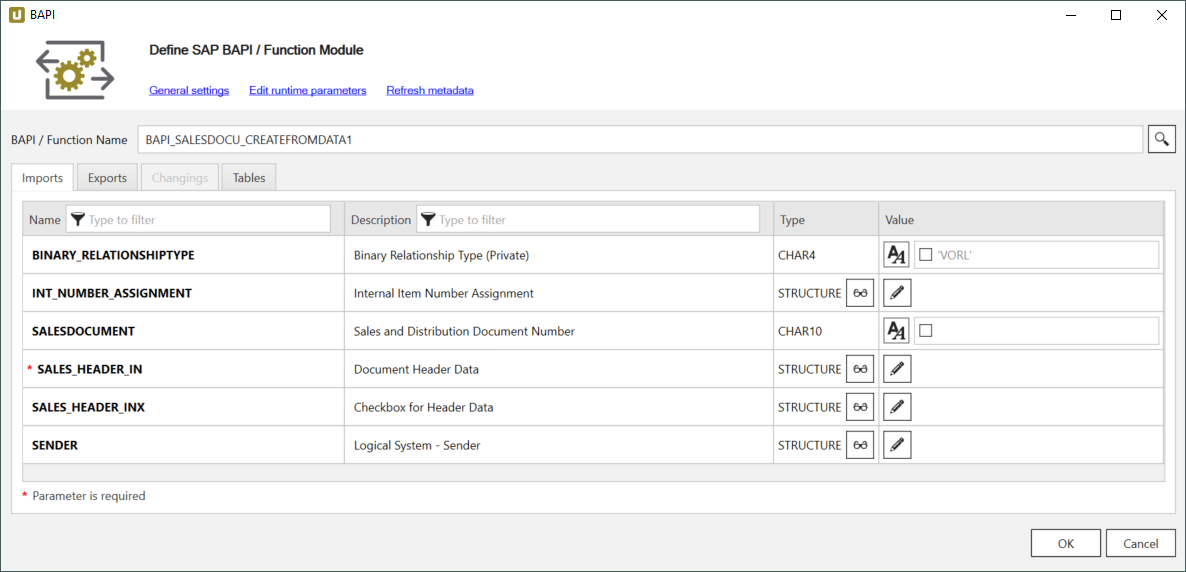
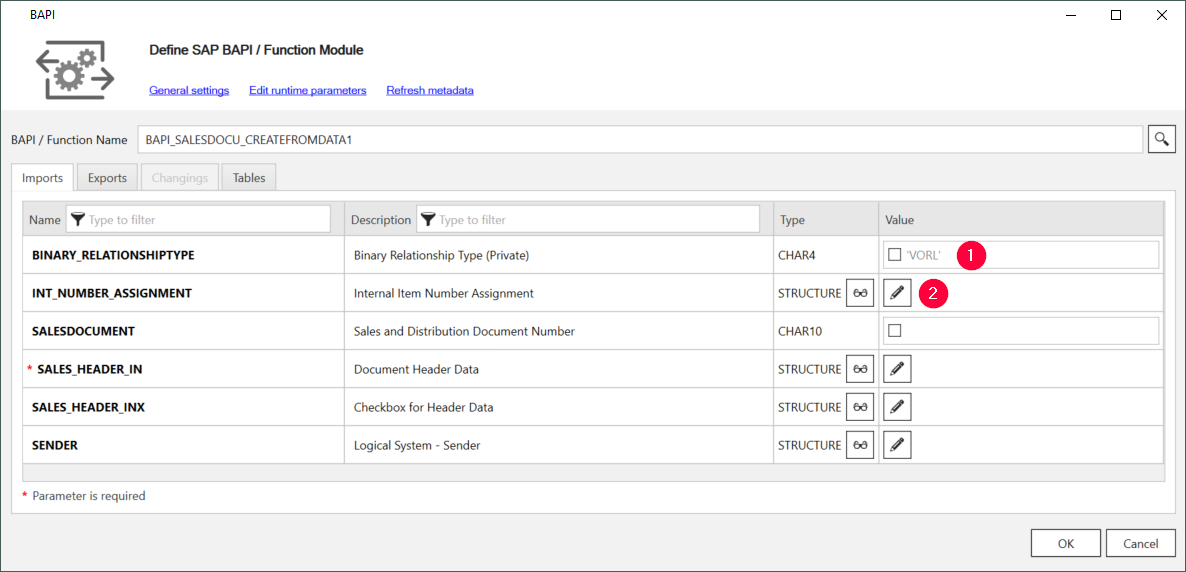
Parametrisierung

Changed region(s): [[0.7487, 0.4161, 0.8423, 0.6241], [0.0312, 0.0892, 0.0936, 0.1486], [0.0, 0.0, 0.0312, 0.0594]]

diff --git a/_includes/_content/en/bapis-and-function-modules/parameters.md b/_includes/_content/en/bapis-and-function-modules/parameters.md
@@ -9,34 +9,45 @@ Each Import, Export, Changings and Tables parameter can have one of the followin
 
 ### Import Parameters
 **Imports** represent the input values sent from the client to SAP. <br>
-In the tab **Imports** you can define import parameters that can be presented as scalar values structures or tables. 
+In the tab **Imports** you can define import parameters that can be presented as scalar values or structures. 
 
 ![BAPI import parameters](/img/content/XU-BAPI-Parameters.png){:class="img-responsive"}
 
 To use the filtering function, enter text in the headers of the columns **Name** and **Description**. <br>
 
-### Add Scalar Parameters
+#### Add Scalar Parameters (1)
 
-xxx
+Scalar fields for inputs are usually set using the following two options:
+- a static constant value (e.g., 1141).
+- a dynamic value set at run-time using a parameter (see [Runtime Parameters](./edit-runtime-parameters)).
+
+When using runtime parameters, make sure the input matches the data type.<br>
+When entering constant scalar values of a wrong data type, the field is marked red.
 
 {: .box-note }
-**Note:** Parameters that are predefined by SAP are displayed in a light grey font. 
+**Note:** Parameters that are predefined by SAP are displayed in a light grey font. <br>
 If you want to disable these parameters, activate the checkbox next to the parameter and don't enter a value.
 
-#### Add Structures or Tables as Parameters
+#### Add Structures as Parameters (2)
 
-xxx
+When using a structure, a value for each scalar field can be set similarly to a scalar field. 
+Setting a single value or a parameter for the whole structure is not possible.
+
+When a structure is available, you can assign structure elements (i.e. fields).<br>
+1. Click the **[pen icon]**. The window "Edit Structures" opens.
+2. Enter values or parameters under **Values**.
+![BAPI import parameters](/img/content/BAPI-Edit-Structure.png){:class="img-responsive"}
 
 ### Export Parameters
 **Exports** represent the output values sent from SAP back to the client after execution of a function module. <br>
 In the tab **Exports** you can define export parameters that can be presented as scalar values, structures or tables. 
 
-![BAPI export parameters](/img/content/Bapi-Exports-Edit.png){:class="img-responsive"}
-To use the filtering function, enter text in the headers of the columns **Name** and **Description**. <br>
-
 #### Add Items to Output
 Mark the checkbox in the output column to add an item to the output.<br>
 
+![BAPI export parameters](/img/content/Bapi-Exports-Edit.png){:class="img-responsive"}
+
+To use the filtering function, enter text in the headers of the columns **Name** and **Description**. <br>
 
 ### Changings Parameters
 
@@ -59,7 +70,7 @@ To use the filtering function, enter text in the headers of the columns **Name**
 
 #### Access Metadata of Tables (1)
 Click the **[glasses icon]** in the **Type** column to display the metadata of the selected table including the name and the data type of all fields. <br> 
-If tables are edited in SAP, you can refresh the data by clicking **Refresh metadata**<br>
+If the function module was edited in SAP, you can refresh the data by clicking **Refresh metadata**<br>
 ![BAPI table metadata](/img/content/BAPI-Table-Metadata.png){:class="img-responsive"}
 
 #### Add Tables to Output (2)
@@ -69,6 +80,18 @@ Mark the checkbox in the output column to add a table to the output.<br>
 
 #### Edit Tables (3)
 
+When using a structure, a value for each scalar field can be set similarly to a scalar field. 
+Setting a single value or a parameter for the whole structure is not possible.
+
+When a structure is available, you can assign structure elements (i.e. fields).<br>
+
 Edit tables via the **[pen icon]** in the column **Values**. <br> 
 
-xxx
+ 1. Click the **[pen icon]** in the column **Values**. The window "Edit Table Contents" opens.
+ 2. Click **[Add]** to add new set of parameters.<br>
+ 3. Enter values or parameters.<br>
+When using runtime parameters, make sure the input matches the data type.<br>
+When entering constant scalar values of a wrong data type, the field is marked red.<br>
+![BAPI edit table](/img/content/BAPI-Edit-Table-Contents.png){:class="img-responsive"}
+4. Click **[Remove]** to delete a row.
+

diff --git a/_includes/_content/de/bapi/eine-bapi-quelle-definieren.md b/_includes/_content/de/bapi/eine-bapi-quelle-definieren.md
@@ -14,17 +14,21 @@ Alternativ können Sie nach Function Groups suchen.
 Das Fenster "Xtract BAPI" zeigt die Parameter der ausgewählten BAPI.<br>
 Eine BAPI kann bis zu vier Paramtertypen haben: [Parametertypen](./parameter): Imports, Exports, Changings und Tables.
 
-![Define-Bapi-Data-Source](/img/content/XU-BAPI-Parameters.png){:class="img-responsive"}
-1. Geben Sie in **Import** Eingabeparameter an, die an SAP gesendet werden, siehe [Import Parametrisierung](). <br>
-Sie können Skalarwerte, Strukturen und Tabellen übergeben. Sie können außerdem dynamische Laufzeitparameter verwenden, siehe [Laufzeitparameter](./edit-runtime-parameters.md).<br>
-Verpflichtende Parameter sind mit einem roten * markiert.
-2. Definieren Sie die Ausgabe von SAP in **Export**, siehe [Export Parametrisierung]().<br>
-Aktivieren Sie die Checkbox neben den aufgelisteten Elementen, um sie der Ausgabe hinzuzufügen.
-3. Optional: Falls verfügbar können SIe Ein- und Ausgabeparameter in **Changings** hinzufügen, siehe [Changings Parametrisierung]().
-4. Fügen Sie in **Tables** Tabellen zur Ein-/Ausgabe hinzu, siehe [Tabellen Parametrisierung]().<br>
-Aktivieren Sie die Checkbox neben den aufgelisteten Elementen, um sie der Ausgabe hinzuzufügen. <br>
-Bearbeiten Sie die Tabelle über das **[Stiftsymbol]** unter **Values**.
-5. Bestätigen Sie Ihre Eingabe mit **[OK]**.
-
 {: .box-note }
 **Hinweis:** Sie können verschachtelte Parameter verwenden, z.B. Tabellen in Tabellen, Strukturen in Tabellen und Strukturen in Strukturen.<br>
+
+1. Geben Sie in **Import** Eingabeparameter an, die an SAP gesendet werden, siehe [Import-Parameter](./parameter#import-parameter). <br>
+Sie können Skalarwerte (1) oder Strukturen (2) übergeben. Sie können außerdem dynamische Laufzeitparameter verwenden, siehe [Laufzeitparameter](./edit-runtime-parameters).<br>
+Verpflichtende Parameter sind mit einem roten * markiert.
+![Define-Bapi-Data-Source](/img/content/XU-BAPI-Parameters.png){:class="img-responsive"}
+2. Definieren Sie die Ausgabe von SAP in **Export**, siehe [Export-Parameter](./parameter#export-parameter).<br>
+Aktivieren Sie die Checkbox neben den aufgelisteten Elementen, um sie der Ausgabe hinzuzufügen.<br>
+![BAPI export parameters](/img/content/Bapi-Exports-Edit.png){:class="img-responsive"}
+3. Optional: Falls verfügbar können Sie Ein- und Ausgabeparameter in **Changings** hinzufügen, siehe [Changings Parametrisierung](./parameter#changings-parameter).
+4. Fügen Sie in **Tables** Tabellen zur Ein-/Ausgabe hinzu, siehe [Tabellen Parametrisierung](./parameter#tables-parameter).<br>
+Prüfen Sie die Namen und Datentypen der Tabellenfelder, indem Sie auf das **[Brillensymbol]** unter **Type** klicken.
+Aktivieren Sie die Checkbox (2) neben den aufgelisteten Tabellen, um sie der Ausgabe hinzuzufügen.
+Bearbeiten Sie die Tabelle über das **[Stiftsymbol]** unter **Values** (3).
+![BAPI table](/img/content/Bapi-Table-Type.png){:class="img-responsive"}
+5. Bestätigen Sie Ihre Eingabe mit **[OK]**.
+

diff --git a/_includes/_content/en/bapis-and-function-modules/bapi-extraction-define.md b/_includes/_content/en/bapis-and-function-modules/bapi-extraction-define.md
@@ -14,18 +14,21 @@ Alternatively you can search for function groups.
 The “Xtract BAPI” window displays the parameters of the selected BAPI.
 BAPI can have up to four parameter types: Imports, Exports, Changings and Tables.
 
-![Define-Bapi-Data-Source](/img/content/XU-BAPI-Parameters.png){:class="img-responsive"}
+{: .box-note }
+**Note:** You can use of nested parameters, e.g., tables in tables, structures in tables and structures in structures.<br>
 
-1. Add input parameters to send to SAP in **Import**, see [Import Parameters](). <br>
-You can enter scalar values, structures or tables. You can also use dynamic runtime parameters, see [Runtime Parameters](./edit-runtime-parameters.md).<br>
-Mandatory parameters are marked with a red (*).
-2. Define the output to receive from SAP in **Eport**, see [Export Parameters][]. <br>
-Select output by activating the checkbox next to the items.
-3. Optional: If available you can define input and output parameters in **Changings**, see [Changings Parameters]().
-4. Add output tables in **Tables**, see [Table Parameters](). <br>
-Select output data by activating the checkbox next to the items.<br>
-Edit the tables via **[pen icon]** under **Values**.
+1. Add input parameters to send to SAP in **Import**, see [Import Parameters](./parameters#import-parameters). <br>
+You can enter scalar values (1) or structures (2). You can also use dynamic runtime parameters, see [Runtime Parameters](./edit-runtime-parameters).<br>
+Mandatory parameters are marked with a red *. <br>
+![Define-Bapi-Data-Source](/img/content/XU-BAPI-Parameters.png){:class="img-responsive"}
+2. Define the output to receive from SAP in **Eport**, see [Export Parameters](./parameters#export-parameters). <br>
+Select output by activating the checkbox next to the items.<br>
+![BAPI export parameters](/img/content/Bapi-Exports-Edit.png){:class="img-responsive"}
+3. Optional: If available you can define input and output parameters in **Changings**, see [Changings Parameters](./parameters#changings-parameters).
+4. Add tables to the output or add table parameters as input in **Tables**, see [Table Parameters](./parameters#table-parameters). <br>
+Check the names and data types of the table's fields by clicking the **[glasses symbol]** under **Type** (1).
+Select output data by activating the checkbox next to the items (2).
+Edit tables via the **[pen icon]** under **Values** (3).
+![BAPI table](/img/content/Bapi-Table-Type.png){:class="img-responsive"}
 5. Click **[OK]** to confirm.
 
-{: .box-note }
-**Note:** The use of nested parameters is supported, e.g., tables in tables, structures in tables and structures in structures.<br>

diff --git a/_includes/_content/de/bapi/edit-runtime-parameters.md b/_includes/_content/de/bapi/edit-runtime-parameters.md
@@ -25,6 +25,7 @@ Weisen Sie Selektionen Laufzeitparameter zu.
 Wenn Sie Parameter angelegt haben, wird neben den Eingabefeldern ein Parametersymbol angezeigt. <br>
 Klicken Sie auf die Icons, um zwischen der Eingabe fester Werte und der Eingabe von Parametern zu wechseln.  <br>
 3. Wählen Sie einen Laufzeitparameter aus der Drop-Down-Liste aus, um ihn dem Element zuzuweisen.
+![Assign parameters](/img/content/BAPI-Runtime-Parameters.png){:class="img-responsive"}
 
 {: .box-note }
 **Hinweis:** Für Informationen bzgl. der Ausführung von Extraktionen mit Laufzeitparametern, siehe [benutzerdefinierten Variablen](../fortgeschrittene-techniken/benutzerdefinierte-variablen).

diff --git a/_includes/_content/en/bapis-and-function-modules/edit-runtime-parameters.md b/_includes/_content/en/bapis-and-function-modules/edit-runtime-parameters.md
@@ -25,6 +25,7 @@ Assign the parameters to selections.
 If there are runtime parameters, a parameter icon is displayed next to the input fields. <br>
 Clicking the icons switches between entering actual input values and entering parameters.<br>
 3. Assign a parameter by selecting a runtime parameter from the dropdown-list.
+![Assign parameters](/img/content/BAPI-Runtime-Parameters.png){:class="img-responsive"}
 
 {: .box-note }
 **Note:** For information on how to run an extraction with runtime parameters, see [User-Defined Variables](../advanced-techniques/user-defined-variables).

diff --git a/content/_en/board-connector/bapis-and-function-modules/edit-runtime-parameters.md b/content/_en/board-connector/bapis-and-function-modules/edit-runtime-parameters.md
@@ -1,0 +1,15 @@
+---
+ref: bc-bapis-and-function-modules-03
+layout: page
+title: Runtime Parameters
+description: Runtime Parameters
+product: board-connector
+parent: bapis-and-function-modules
+permalink: /:collection/:path
+weight: 6
+lang: en_GB
+old_url: /BOARD-Connector-EN/default.aspx?pageid=bapi-extraction-settings
+---
+
+
+{% include _content/en/bapis-and-function-modules/edit-runtime-parameters.md %}

diff --git a/content/_de/board-connector/bapis-und-funktionsbausteine/edit-runtime-parameters.md b/content/_de/board-connector/bapis-und-funktionsbausteine/edit-runtime-parameters.md
@@ -1,0 +1,13 @@
+---
+ref: bc-bapis-and-function-modules-03
+layout: page
+title: Laufzeitparameter
+description: Laufzeitparameter
+product: board-connector
+parent: bapis-und-funktionsbausteine
+permalink: /:collection/:path
+weight: 6
+lang: de_DE
+---
+
+{% include _content/de/bapi/edit-runtime-parameters.md %}

diff --git a/content/_de/board-connector/bapis-und-funktionsbausteine/parameter.md b/content/_de/board-connector/bapis-und-funktionsbausteine/parameter.md
@@ -1,9 +1,9 @@
 ---
-ref: xu-bapis-function-02
+ref: bc-bapis-and-function-modules-02
 layout: page
 title: Parameter
-description: Skalare Parameter
-product: xtract-universal
+description: Parameter
+product: board-connector
 parent: bapis-und-funktionsbausteine
 permalink: /:collection/:path
 weight: 2

diff --git a/_includes/_content/de/bapi/parameters.md b/_includes/_content/de/bapi/parameters.md
@@ -4,5 +4,10 @@ Jeder Import, Export und Changings-Parameter kann einen der folgenden Darstellun
 - eine Struktur, die mehrere Komponenten beinhaltet
 - eine Tabelle
 
+### Import-Parameter
 
-### Tabellen
+### Export-Parameter
+
+### Changings-Parameter
+
+### Tables-Parameter

diff --git a/content/_en/board-connector/bapis-and-function-modules/parameters.md b/content/_en/board-connector/bapis-and-function-modules/parameters.md
@@ -1,9 +1,9 @@
 ---
-ref: xu-bapis-function-02
+ref: bc-bapis-and-function-modules-02
 layout: page
 title: Parameters
 description: Parameters
-product: xtract-universal
+product: board-connector
 parent: bapis-and-function-modules
 permalink: /:collection/:path
 weight: 2

diff --git a/content/_en/xtract-universal/bapis-and-function-modules/bapi-extraction-define.md b/content/_en/xtract-universal/bapis-and-function-modules/bapi-extraction-define.md
@@ -10,4 +10,5 @@ weight: 1
 lang: en_GB
 old_url: /Xtract-Universal-EN/default.aspx?pageid=define-a-bapi-extraction
 ---
+
 {% include _content/en/bapis-and-function-modules/bapi-extraction-define.md %}

diff --git a/content/_de/xtract-universal/bapis-und-funktionsbausteine/eine-bapi-quelle-definieren.md b/content/_de/xtract-universal/bapis-und-funktionsbausteine/eine-bapi-quelle-definieren.md
@@ -10,5 +10,6 @@ weight: 1
 lang: de_DE
 old_url: /Xtract-Universal-DE/default.aspx?pageid=eine-bapi-quelle-definieren
 ---
+
 {% include _content/de/bapi/eine-bapi-quelle-definieren.md %}
 
